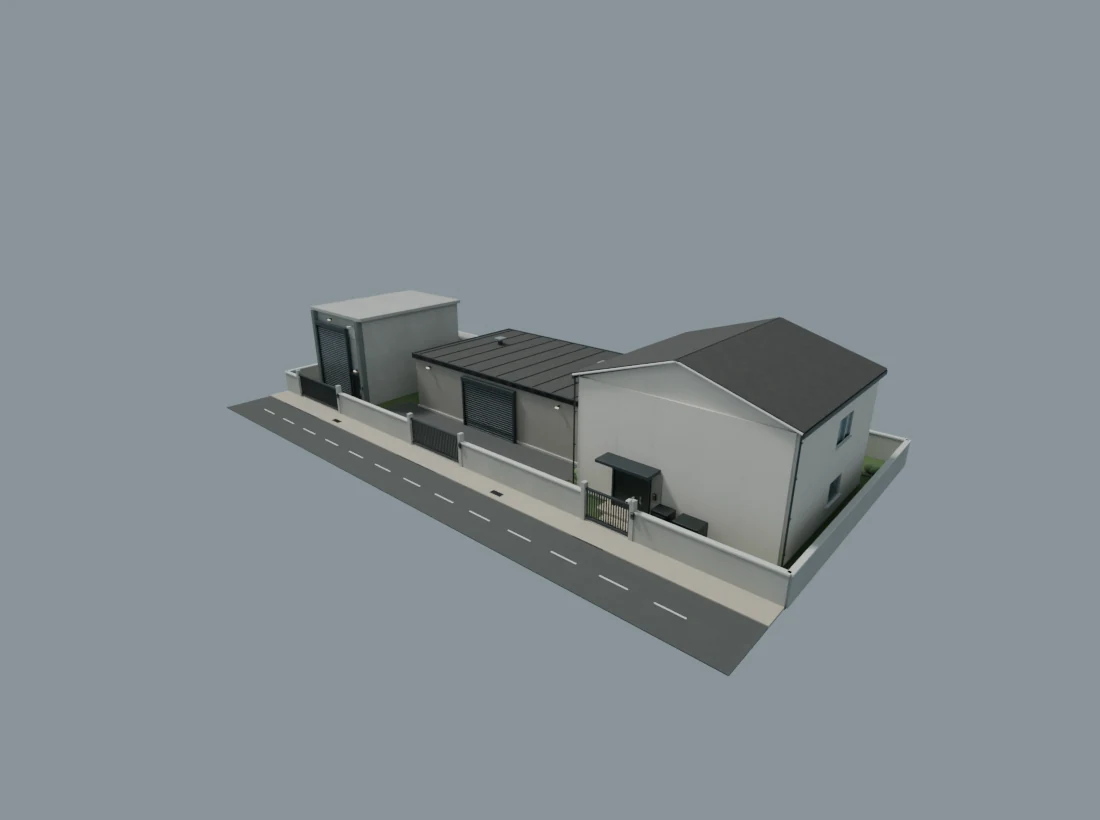
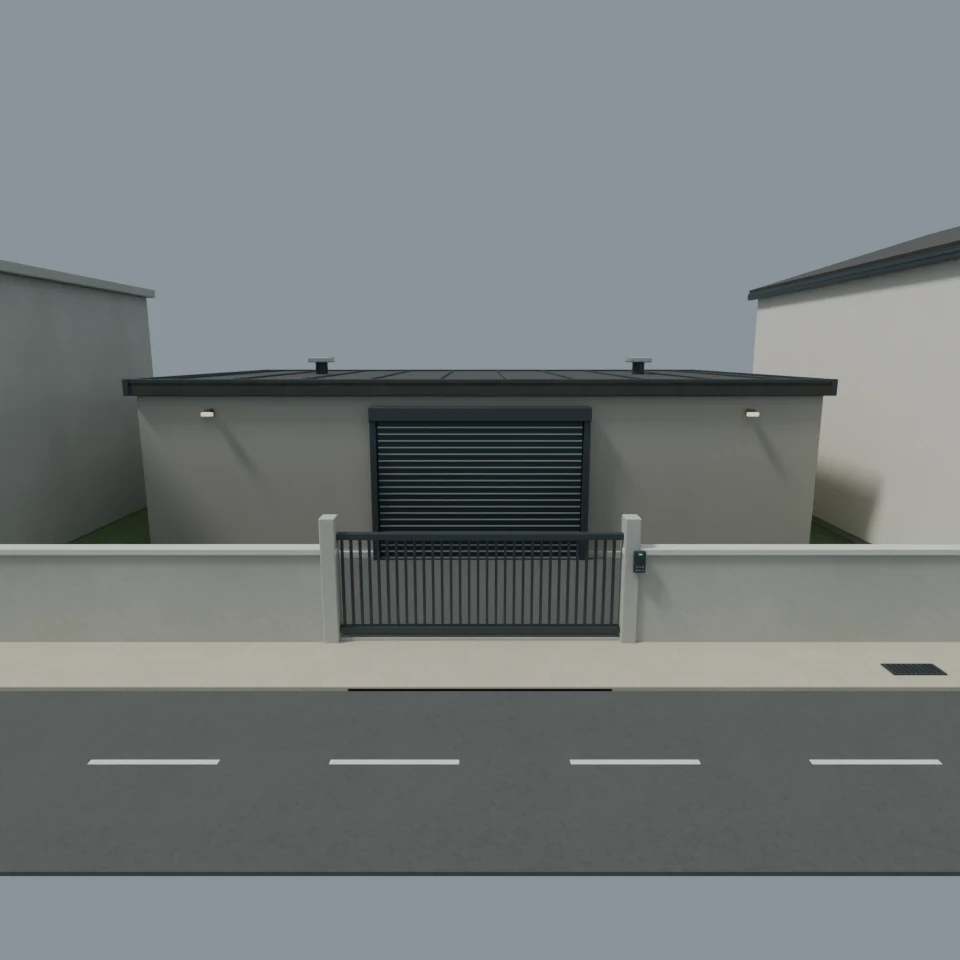
Focus outdoor maps on the grounds and face the warehouse

diff --git a/site/game/outdoor-map.js b/site/game/outdoor-map.js
@@ -1,21 +1,12 @@
 import {interiorMapDrawing} from './interior-map.js';
 import {OUTDOOR_LAYOUT as layout} from './outdoor-layout.js';
-// A schematic overview; every footprint comes from the exported exterior layout.
+// Focus on the grounds and frontage present in the exported exterior model.
 export const OUTDOOR_MAP_VIEWBOX=layout.mapViewBox.join(' ');
 
 const rect=(x,y,width,height,fill,extra='')=>`<rect x="${x}" y="${y}" width="${width}" height="${height}" rx="9" fill="${fill}" ${extra}/>`;
 const text=(x,y,value,size=30,extra='')=>`<text x="${x}" y="${y}" text-anchor="middle" font-size="${size}" fill="#645b49" ${extra}>${value}</text>`;
 const line=points=>points.map(([x,y],index)=>`${index?'L':'M'}${x} ${y}`).join('');
 const featureRect=(feature,fill,extra='')=>rect(...feature.rect,fill,extra);
-
-function neighborsDrawing(){
- return '<g data-outdoor-feature="neighborhood" opacity=".46">'+layout.neighbors.map(({id,direction,rect:[x,y,w,h],roofColor})=>
-  `<g data-outdoor-neighbor="${id}" data-neighbor-direction="${direction}">`+
-  rect(x,y,w,h,'#f1ebdf','stroke="#c7beaa" stroke-width="4"')+
-  `<path d="M${x+14} ${y+20}H${x+w-14}V${y+h-20}H${x+14}Z" fill="${roofColor}" fill-opacity=".22" stroke="${roofColor}" stroke-width="5"/>`+
-  `<path d="M${x+w/2} ${y+20}V${y+h-20}M${x+14} ${y+20}L${x+w/2} ${y+65}L${x+w-14} ${y+20}M${x+14} ${y+h-20}L${x+w/2} ${y+h-65}L${x+w-14} ${y+h-20}" fill="none" stroke="${roofColor}" stroke-width="4"/>`+
-  '</g>').join('')+'</g>';
-}
 
 function fenceDrawing(){
  const [x,y,w,h]=layout.site.rect,bottom=y+h,gates=[layout.entry.freightGate,layout.entry.warehouseGate,layout.entry.mainGate].sort((a,b)=>a[0]-b[0]);
@@ -37,11 +28,11 @@ function securityDrawing(x,y,{id='entry',side=1}={}){
 export function outdoorMapDrawing({selected=null}={}){
  const zone=(id,x,y,width,height,fill,extra='')=>rect(x,y,width,height,fill,`data-building-zone="${id}" stroke="${selected===id?'#936843':'#ad9d7d'}" stroke-width="${selected===id?6:3}" ${extra}`);
  const [sx,sy,sw,sh]=layout.site.rect,[wx,wy,ww,wh]=layout.warehouse.rect,[hx,hy,hw,hh]=layout.house.rect,[fx,fy,fw,fh]=layout.freight.rect;
+ const streetRect=[sx,layout.street.rect[1],sw,layout.street.rect[3]],sidewalkRect=[sx,layout.street.sidewalk[1],sw,layout.street.sidewalk[3]],northX=sx+sw-64,northY=sy+178;
  const [doorX,doorY,doorWidth]=layout.house.frontDoor,[shutterX,shutterY,shutterWidth]=layout.freight.southShutter,[humanX,humanY,humanWidth]=layout.freight.southHumanDoor;
  const corridor=line(layout.corridor.points),corridorWidth=layout.corridor.width;
  const eastWindowStart=Math.min(...layout.house.eastWindows.map(window=>window.start)),eastWindowEnd=Math.max(...layout.house.eastWindows.map(window=>window.end));
- let drawing=neighborsDrawing()+
-  featureRect(layout.site,'#dbe8cc','data-outdoor-feature="grass" stroke="#b4bf9e" stroke-width="4"')+
+ let drawing=featureRect(layout.site,'#dbe8cc','data-outdoor-feature="grass" stroke="#b4bf9e" stroke-width="4"')+
   '<g data-outdoor-feature="lawn-grain" fill="none" stroke="#b9cd9f" stroke-width="3" opacity=".65">'+
   [[82,120],[185,150],[370,112],[550,100],[760,125],[1040,105],[1265,132],[1325,235],[1305,370],[1325,535],[66,824],[445,540],[445,720],[1330,808],[1770,814],[1900,840]].map(([x,y])=>`<path d="M${x-7} ${y+7}l7-14 7 14m-7-14v17"/>`).join('')+'</g>'+
   featureRect(layout.paved,'#d6d2c5','data-outdoor-feature="paved-yard" stroke="#b9b4a5" stroke-width="3"')+
@@ -49,9 +40,9 @@ export function outdoorMapDrawing({selected=null}={}){
   [590,710,830,950,1070,1190].map(x=>`<path d="M${x} ${layout.paved.rect[1]}v${layout.paved.rect[3]}"/>`).join('')+
   `<path d="M${layout.paved.rect[0]} ${layout.paved.rect[1]+112}h${layout.paved.rect[2]}"/></g>`+
   // Roads are outside the fence; only working approaches interrupt the lawn.
-  featureRect(layout.street,'#cdd0c8','data-outdoor-feature="street"')+
-  rect(...layout.street.sidewalk,'#e3dece','data-outdoor-feature="sidewalk"')+
-  `<path d="M${layout.street.rect[0]} 960h${layout.street.rect[2]}" stroke="#b4b6a7" stroke-width="4"/><path d="M${layout.street.rect[0]} 1040h${layout.street.rect[2]}" stroke="#f4f1df" stroke-width="6" stroke-dasharray="60 44"/>`+
+  rect(...streetRect,'#cdd0c8','data-outdoor-feature="street"')+
+  rect(...sidewalkRect,'#e3dece','data-outdoor-feature="sidewalk"')+
+  `<path d="M${streetRect[0]} 960h${streetRect[2]}" stroke="#b4b6a7" stroke-width="4"/><path d="M${streetRect[0]} 1040h${streetRect[2]}" stroke="#f4f1df" stroke-width="6" stroke-dasharray="60 44"/>`+
   text(1670,1092,'住宅街の道',54)+
   layout.walkways.map(path=>`<path data-outdoor-path="${path.id}" d="${line(path.points)}" fill="none" stroke="#d8d1bd" stroke-width="${path.width}"/>`).join('')+
   // Thick outer walls and a continuous opaque roof distinguish the enclosed link.
@@ -92,6 +83,6 @@ export function outdoorMapDrawing({selected=null}={}){
   text(1000,118,'おこていゆハウス周辺',64)+
   zone('grounds',...layout.groundsZone.rect,'#edf2df',`data-map-marker-x="${layout.groundsZone.rect[0]+layout.groundsZone.rect[2]-50}" data-map-marker-y="${layout.groundsZone.rect[1]+15}" data-map-marker-unit="1.4"`)+
   text(layout.groundsZone.rect[0]+155,layout.groundsZone.rect[1]+75,'拠点の屋外',50)+
-  '<g data-outdoor-feature="north-mark" stroke="#9aa68c" fill="none" stroke-width="5"><path d="M2110-270v-115m-22 36 22-36 22 36"/></g>'+text(2110,-414,'N',44);
+  `<g data-outdoor-feature="north-mark" stroke="#9aa68c" fill="none" stroke-width="5"><path d="M${northX} ${northY}v-115m-22 36 22-36 22 36"/></g>`+text(northX,northY-144,'N',44);
  return `<g data-outdoor-plan="house-surroundings" font-family="system-ui, sans-serif">${drawing}</g>`;
 }

diff --git a/site/game/outdoor-layout.js b/site/game/outdoor-layout.js
@@ -1,13 +1,13 @@
 /** Shared visual layout for the ground-level map and exported 3D exterior. */
 export const OUTDOOR_LAYOUT=Object.freeze({
-  "revision": "R208",
+  "revision": "R212",
   "units": "meters",
   "dimensionsAreArtProductionValues": true,
   "mapViewBox": [
-    -800,
-    -650,
-    3600,
-    2550
+    -10,
+    0,
+    2020,
+    1160
   ],
   "mapUnitsToMeters": 0.02,
   "mapOrigin": [
@@ -181,15 +181,15 @@ export const OUTDOOR_LAYOUT=Object.freeze({
   ],
   "street": {
     "rect": [
-      -800,
+      30,
       960,
-      3600,
+      1940,
       160
     ],
     "sidewalk": [
-      -800,
+      30,
       884,
-      3600,
+      1940,
       76
     ]
   },
@@ -234,152 +234,19 @@ export const OUTDOOR_LAYOUT=Object.freeze({
       115
     ]
   },
-  "neighbors": [
-    {
-      "id": "neighbor-north-1",
-      "direction": "north",
-      "rect": [
-        100,
-        -575,
-        400,
-        350
-      ],
-      "roofColor": "#59616a"
-    },
-    {
-      "id": "neighbor-north-2",
-      "direction": "north",
-      "rect": [
-        800,
-        -575,
-        400,
-        350
-      ],
-      "roofColor": "#6f6359"
-    },
-    {
-      "id": "neighbor-north-3",
-      "direction": "north",
-      "rect": [
-        1500,
-        -575,
-        400,
-        350
-      ],
-      "roofColor": "#626a60"
-    },
-    {
-      "id": "neighbor-south-1",
-      "direction": "south",
-      "rect": [
-        100,
-        1475,
-        400,
-        350
-      ],
-      "roofColor": "#59616a"
-    },
-    {
-      "id": "neighbor-south-2",
-      "direction": "south",
-      "rect": [
-        800,
-        1475,
-        400,
-        350
-      ],
-      "roofColor": "#6f6359"
-    },
-    {
-      "id": "neighbor-south-3",
-      "direction": "south",
-      "rect": [
-        1500,
-        1475,
-        400,
-        350
-      ],
-      "roofColor": "#626a60"
-    },
-    {
-      "id": "neighbor-east-1",
-      "direction": "east",
-      "rect": [
-        2350,
-        -25,
-        400,
-        350
-      ],
-      "roofColor": "#59616a"
-    },
-    {
-      "id": "neighbor-east-2",
-      "direction": "east",
-      "rect": [
-        2350,
-        475,
-        400,
-        350
-      ],
-      "roofColor": "#6f6359"
-    },
-    {
-      "id": "neighbor-east-3",
-      "direction": "east",
-      "rect": [
-        2350,
-        1225,
-        400,
-        350
-      ],
-      "roofColor": "#626a60"
-    },
-    {
-      "id": "neighbor-west-1",
-      "direction": "west",
-      "rect": [
-        -750,
-        -25,
-        400,
-        350
-      ],
-      "roofColor": "#59616a"
-    },
-    {
-      "id": "neighbor-west-2",
-      "direction": "west",
-      "rect": [
-        -750,
-        475,
-        400,
-        350
-      ],
-      "roofColor": "#6f6359"
-    },
-    {
-      "id": "neighbor-west-3",
-      "direction": "west",
-      "rect": [
-        -750,
-        1225,
-        400,
-        350
-      ],
-      "roofColor": "#626a60"
-    }
-  ],
+  "neighbors": [],
   "camera": {
     "position": [
-      26,
-      16,
-      29
+      -1.8,
+      4.5,
+      17.5
     ],
     "target": [
-      0,
-      1,
-      -0.5
+      -1.8,
+      1.8,
+      3.2
     ],
-    "fov": 76,
+    "fov": 72,
     "far": 180
   },
   "windowAlignmentReference": {

diff --git a/site/game/area-map.js b/site/game/area-map.js
@@ -4,7 +4,7 @@ import {BattleLog} from './battle-log.js';
 import {interiorMapSvg,staffCountDrawing} from './interior-map.js';
 import {getFacilityStaffCounts} from './facility-staff.js';
 import {INTERIOR_ROOMS} from './interior-rules.js';
-import {outdoorMapDrawing} from './outdoor-map.js';
+import {outdoorMapDrawing,OUTDOOR_MAP_VIEWBOX} from './outdoor-map.js';
 
 // Decorative cue stays outside the map SVGs copied into the dialogs.
 const MAP_TAP_CUE='<span class="area-map__tap-cue" aria-hidden="true"><svg viewBox="0 0 32 32" focusable="false"><path d="M13 19V9a2 2 0 0 1 4 0v7a2 2 0 0 1 4 0v1a2 2 0 0 1 4 0v2a2 2 0 0 1 4 0v4c0 4-2 7-6 7h-6c-2 0-3-1-4-2L7 21c-1-2 1-4 3-3l3 2Z" fill="#f4e6ce"/><path d="M9 7a6 6 0 0 1 12 0M11.5 7a3.5 3.5 0 0 1 7 0"/></svg></span>';
@@ -52,7 +52,7 @@ export class AreaMap {
  }
  showInterior(id){
   const room=INTERIOR_ROOMS[id];if(!room||id==='analysis-room')return false;this.clearBattleLog();this.mode='interior';this.interiorId=id;this.element.dataset.area='interior';this.title.textContent=room.title;this.hint.textContent='';
-  const drawing=id==='outdoor'?'<svg class="room-map" viewBox="-30 0 2060 1000" role="img" aria-label="拠点の屋外の地図">'+outdoorMapDrawing({selected:'grounds'})+'</svg>':interiorMapSvg(id);
+  const drawing=id==='outdoor'?'<svg class="room-map" viewBox="'+OUTDOOR_MAP_VIEWBOX+'" role="img" aria-label="拠点の屋外の地図">'+outdoorMapDrawing({selected:'grounds'})+'</svg>':interiorMapSvg(id);
   this.content.innerHTML='<button class="area-map__house-trigger" data-house-map-open type="button" aria-label="'+room.title+'の建物マップを開く" aria-haspopup="dialog" aria-controls="buildingMapDialog" aria-expanded="false">'+drawing+MAP_TAP_CUE+'</button>';this.refreshStaff();return true;
  }
  refreshStaff(){
